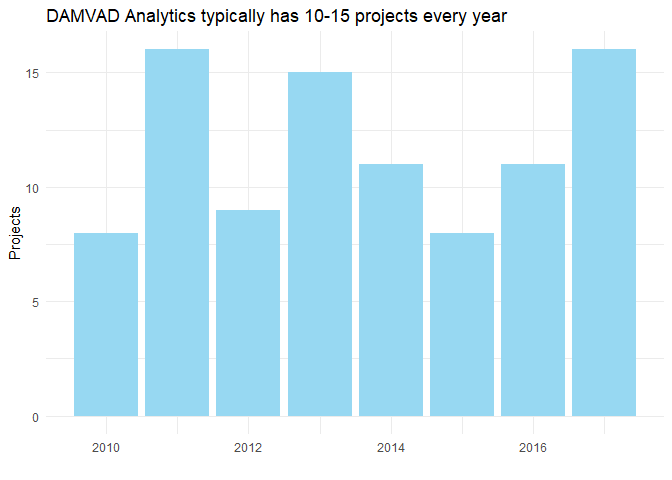
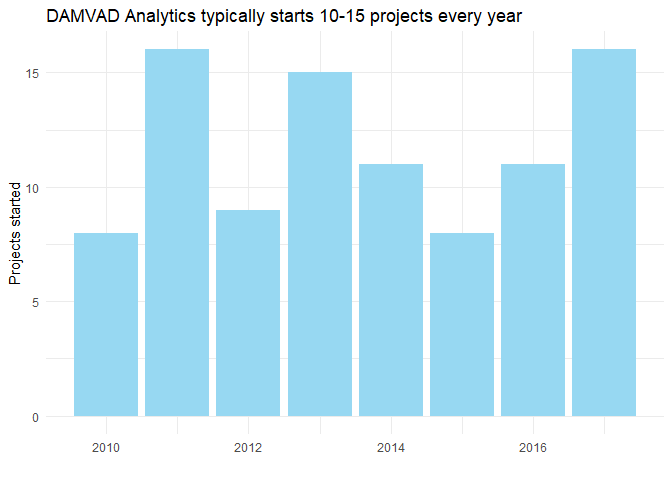
fixes

Changed region(s): [[0.4062, 0.0, 0.7812, 0.0625], [0.0, 0.375, 0.0312, 0.5938]]

diff --git a/README.md b/README.md
@@ -32,7 +32,7 @@ distinct_projects <- data_all %>%
   filter(Year==min(Year))
 ```
 
-So which private company has had most projects the past three years?
+So which private companies have had the most projects the past three years?
 
 ``` r
 most_projects <- distinct_projects %>% 
@@ -41,27 +41,7 @@ most_projects <- distinct_projects %>%
   group_by(Organization) %>% 
   summarise(Projects = n()) %>% 
   arrange(desc(Projects))
-knitr::kable(most_projects)
 ```
-
-| Organization                                                                 |  Projects|
-|:-----------------------------------------------------------------------------|---------:|
-| 445. DAMVAD Analytics                                                        |        35|
-| 53. COWI A/S, Division 1                                                     |        27|
-| 48. Epinion A/S                                                              |        17|
-| 44. PLS RAMBØLL Management A/S                                               |        16|
-| 329. Incentive                                                               |        13|
-| 318. Mploy A/S                                                               |        10|
-| 224. Deloitte Consulting, Deloitte, Statsautoriseret Revisionspartnerselskab |         7|
-| 480. Højbjerre Brauer Schultz                                                |         7|
-| 461. Marselisborg                                                            |         4|
-| 72. Copenhagen Economics                                                     |         4|
-| 387. Moos-Bjerre & Lange ApS                                                 |         3|
-| 488. Analyse & Tal                                                           |         3|
-| 243. Oxford Research A/S                                                     |         2|
-| 411. BDO Consulting                                                          |         2|
-| 293. McKinsey & Company                                                      |         1|
-| 481. IRIS Group                                                              |         1|
 
 ``` r
 library(ggplot2)
@@ -69,14 +49,15 @@ ggplot(data = most_projects,
        aes(x = reorder(Organization, Projects), y = Projects, fill="#97d8f2")) +
   geom_col() +
   scale_fill_manual(values ="#97d8f2") +
-  labs(x="", title = "DAMVAD Analytics has started more projects than any other private company") +
+  labs(x="", y="Projects started",
+       title = "DAMVAD Analytics has started more projects than any other private company") +
   coord_flip() +
   theme_minimal() +
   theme(plot.title = element_text(hjust = 1.1)) +
   theme(legend.position = "none")
 ```
 
-<img src="README_files/figure-markdown_github/unnamed-chunk-7-1.png" style="display: block; margin: auto;" />
+<img src="README_files/figure-markdown_github/unnamed-chunk-8-1.png" style="display: block; margin: auto;" />
 
 So DAMVAD Analytics is the private company that has used the data the most since 2015. But how has their usage varied over the years?
 
@@ -89,9 +70,10 @@ plot(ggplot(data = DAMVAD_Analytics,
        aes(x = Year, y = Projects, fill="#97d8f2")) +
   geom_col() +
   scale_fill_manual(values ="#97d8f2") +
-  labs(x="", title = "DAMVAD Analytics typically starts 10-15 projects every year") +
+  labs(x = "", y = "Projects started",
+       title = "DAMVAD Analytics typically starts 10-15 projects every year") +
   theme_minimal() +
   theme(legend.position = "none"))
 ```
 
-<img src="README_files/figure-markdown_github/unnamed-chunk-8-1.png" style="display: block; margin: auto;" />
+<img src="README_files/figure-markdown_github/unnamed-chunk-9-1.png" style="display: block; margin: auto;" />
